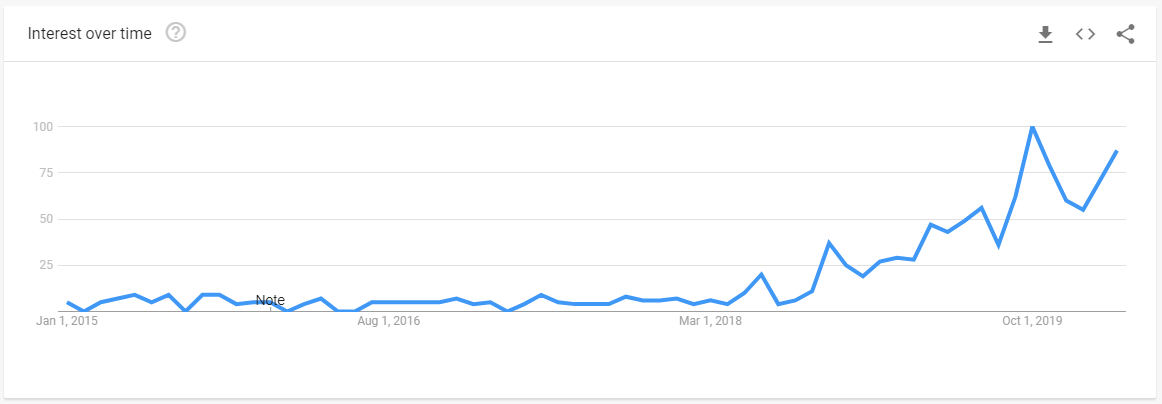
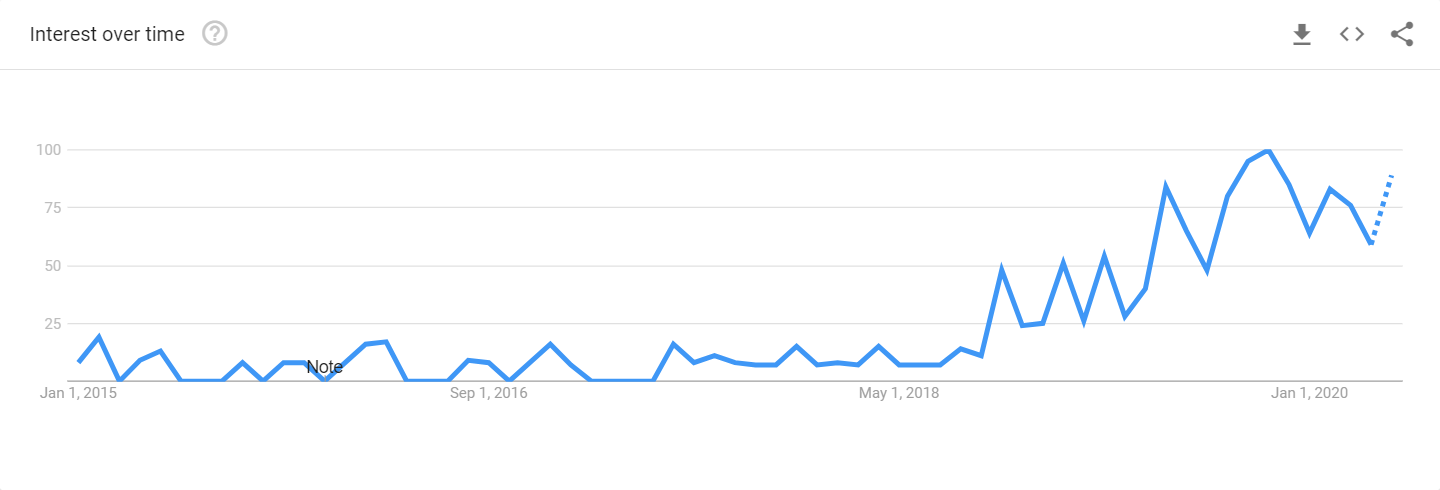
update images for graphs + edits to article content

diff --git a/content/blog/2020-03-16-using-rsocket-in-javascript/index.md b/content/blog/2020-03-16-using-rsocket-in-javascript/index.md
@@ -1,28 +1,34 @@
 ---
-title: Considerations for Using RSocket in JavaScript
-slug: considerations-for-using-rsocket-in-javascript
-date: "2020-03-16T16:41:00.000Z"
+title: The State of RSocket in JavaScript
+slug: the-state-of-rsocket-in-javascript
+date: "2020-05-23T00:00:00.000Z"
 description: "******************TODO******************"
 ogimage: "./og-image.jpg"
 ---
 
-RSocket is an exciting new advancement in the distributed systems space, however, it hasn't quite picked up the same popularity in the JavaScript ecosystem as other networking techonologies, such as GraphQL. In contrast to GraphQL where entire conferences, companies, and library suites have taken life, RSocket is missing a similar level of investment from JavaScript developers and big time JavaScript consumers.
+RSocket is an exciting new advancement in the application protocol space with decent adoption and support in the Java ecosystem, largely due to contributions to the Java implementation from companies such as Pivotal, and decent support for RSocket in the popular [Spring](https://spring.io) framework. With respect to JavaScript, RSocket hasn't quite picked up the same level of popularity, adoption, or investment as other protocols, such as [GraphQL](https://graphql.org/).
 
-## RSocket Hasn't Gained Popularity
+## Overall RSocket Hasn't Gained Popularity
 
-Let's compare RSocket's search popularity with [GraphQL's](https://graphql.org/), which is another networking and application protocol.
+Let's compare RSocket's search popularity with GraphQL's.
 
-RSocket's search popularity only started picking up steam in late 2018.
+#### RSocket
+
+In the below graph, we see that RSocket's search popularity only started picking up steam in late 2018.
 
 ![Graph showing RSocket search popularity on Google Trends](./rsocket-search-trends.png)
 
 Source: [Google Trends](https://trends.google.com/trends/explore?date=2015-01-01%202020-03-15&q=rsocket)
+
+#### GraphQL
 
 In contrast, GraphQL has experienced a much steeper increase in search popularity.
 
 ![Graph showing RSocket search popularity on Google Trends](./graphql-search-trends.png)
 
 Source: [Google Trends](https://trends.google.com/trends/explore?date=2015-01-01%202020-03-15&q=graphql)
+
+### Drawing Parallels
 
 If we draw a parallel between search popularity and industry adoption, RSocket has yet to experience the same search popularity growth as GraphQL, signifying that it hasn't adopted the same level of adoption.
 
@@ -32,9 +38,13 @@ GraphQL in red. RSocket in blue.
 <br/>
 Source: [Google Trends](https://trends.google.com/trends/explore?date=2015-01-01%202020-03-15&q=rsocket,graphql)
 
-The popularity of GraphQL can be attributed to its conception at Facebook as well as investment into its ecosystem from startups such as [Apollo GraphQL](https://www.apollographql.com/). If RSocket were to gain popularity with large enterprise companies and JavaScript developers, it has the potential to experience similar adoption.
+### Popularity and Adoption
 
-JavaScript developers have become accustomed to leveraging open source packages to solve a wide range of problems. Unfortunately, RSocket's ecosystem hasn't quite developed yet; there is only a single reference implementation of RSocket for JavaScript and no well established supporting libraries. If you expect to be able to `npm install` your way to victory, you're going to have a bad time.
+One can easily contribute the popularity of GraphQL to its conception at Facebook and Facebook's opensource contributions having high visibility in the JavaScript space. Additionally, the investment into the GraphQL ecosystem from startups such as [Apollo GraphQL](https://www.apollographql.com/) have paid dividends into popularizing GraphQL. If RSocket were to gain popularity with large enterprise companies, as well as an engaged audience of JavaScript developers, I believe it could help RSocket experience similar adoption.
+
+#### RSocket's Ecosystem is Undeveloped in JavaScript
+
+In JavaScript, most developers have become accustomed to leveraging open source packages to solve a wide range of common problems, and it's never been a better time to avoid reinventing the wheel. However, being that there is only a single reference implementation of RSocket and no well-established supporting libraries, if you expect to be able to `npm install` your way to victory, you're going to have a bad time with RSocket.
 
 ![Image of "super cool ski instructor" meme from Southpark](./npm-rsocket-bad-time-meme.jpg)
 
@@ -52,7 +62,7 @@ When building an application, developers will find it is much more practical to 
 
 At first glance, it can be difficult to determine the primary maintainers of the rsocket-js. The contributions as of late have primarily been from engineers who do not appear to be associated with Facebook, however, several of the licenses in the repository reference Facebook, and new contributors to the project are expected to accept the Facebook OSS agreement. Based on this, it appears that Facebook may not be taking a leading role in the libraries continued development, even if they did bootstrap and get the library off the ground initially. It is also important to note that the project has received varying levels of contribution from engineers at companies such as [Pivotal](https://pivotal.io/) and [Netifi](https://www.netifi.com/), as well as contributors from the open source community.
 
-#### Uncertain Ownership
+#### Uncertainty
 
 The Java implementation of RSocket for Java ([rsocket-java](https://github.com/rsocket/rsocket-java)) has received heavy and continued contribution from engineers at established well known companies, such as Netflix and Pivotal. This investment by leaders in the Java OSS space provides consumers of rsocket-java with a certain level of confidence that the project has a long life ahead of it, and as such, could feel more comfortable betting their project, and possibly their business of the technology. In contrast, it is uncertain if rsocket-js has a clear set of core maintainers, a defined road map, or is being used by any large companies.
 
@@ -114,12 +124,14 @@ In addition to promoting the creation of tooling, a standardized opinionated spe
 
 ### rsocket-flowable
 
-[rsocket-flowable](https://github.com/rsocket/rsocket-js/blob/master/docs/03-flowable-api.md) provides an interface implementation for Reactive Streams in JavaScript, and is deeply ingrained into both rsocket-js and rsocket-rpc-js. Learning the rsocket-flowable API, and what it means to work with Reactive libraries and patterns is going to be paramount to successfully working rsocket-js and rsocket-rpc-js.
+[rsocket-flowable](https://github.com/rsocket/rsocket-js/blob/master/docs/03-flowable-api.md) provides an implementation for Reactive Streams in JavaScript, and is deeply ingrained into both rsocket-js and rsocket-rpc-js. Learning the rsocket-flowable API, and what it means to work with Reactive libraries and paradigms is going to be paramount to successfully working rsocket-js and rsocket-rpc-js.
 
-If you are familiar with [RxJS](https://github.com/ReactiveX/rxjs), then rsocket-flowable will likely feel familiar to you. If you are not familiar with RxJS, or reactive programming paradigms, then you are likely going to experience a learning curve.
+If you are familiar with [RxJS](https://github.com/ReactiveX/rxjs), then rsocket-flowable will likely feel familiar to you. If you are not familiar with RxJS, or reactive programming paradigms, then you could experience a somewhat steep learning curve.
 
-## What to expect next
+## What to Expect Next
 
 While the bulk of ongoing development appears to be centered around the Java and C++ implementations of RSocket, it is my hope that the JavaScript implementation will continue to receive updates and additions to meet the full RSocket spec, but only time will tell.
 
-If you are passionate about RSocket and a seasoned JavaScript developer, now may be a good time to get involved with the project to leave your mark and assist in its continuity. If contributing to the project(s) might not be your cup of tea, then sharing this article with your friends, coworkers, and your social networks would be a great way to increase RSocket's visibility in the JavaScript community.
+If you are passionate about RSocket and a seasoned JavaScript developer, now may be a good time to get involved with the project to leave your mark and assist in its continuity. If contributing to the project is not your cup of tea, then sharing this article amd RSocket with your friends, coworkers, and on your social networks would be a great way to increase RSocket's visibility in the JavaScript community.
+
+Drop me a comment below, or send me a tweet me on Twitter and let me know if this is the first you are hearing of RSocket, or if you are also closesly watching its development, as I am.
